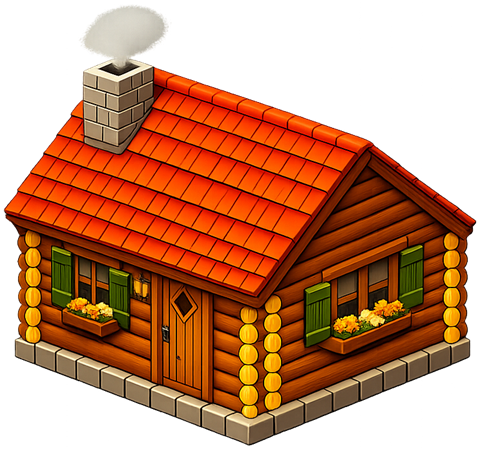
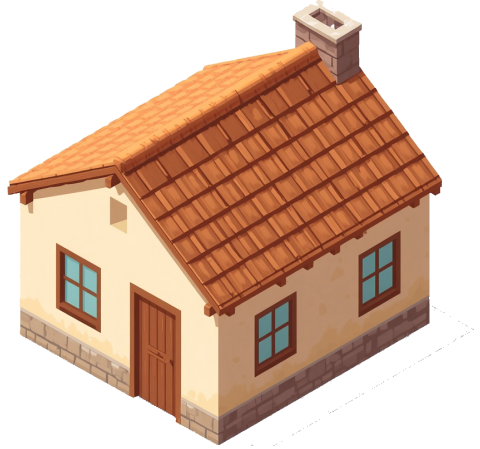
Publish update

diff --git a/index.html b/index.html
@@ -4,7 +4,7 @@
     <meta charset="UTF-8" />
     <meta name="viewport" content="width=device-width, initial-scale=1.0" />
     <title>Mano Ukis Remake</title>
-    <script type="module" crossorigin src="/assets/index-_llvmZfz.js"></script>
+    <script type="module" crossorigin src="/assets/index-DN5MMpb4.js"></script>
     <link rel="stylesheet" crossorigin href="/assets/index-BwjKK7fB.css">
   </head>
   <body>